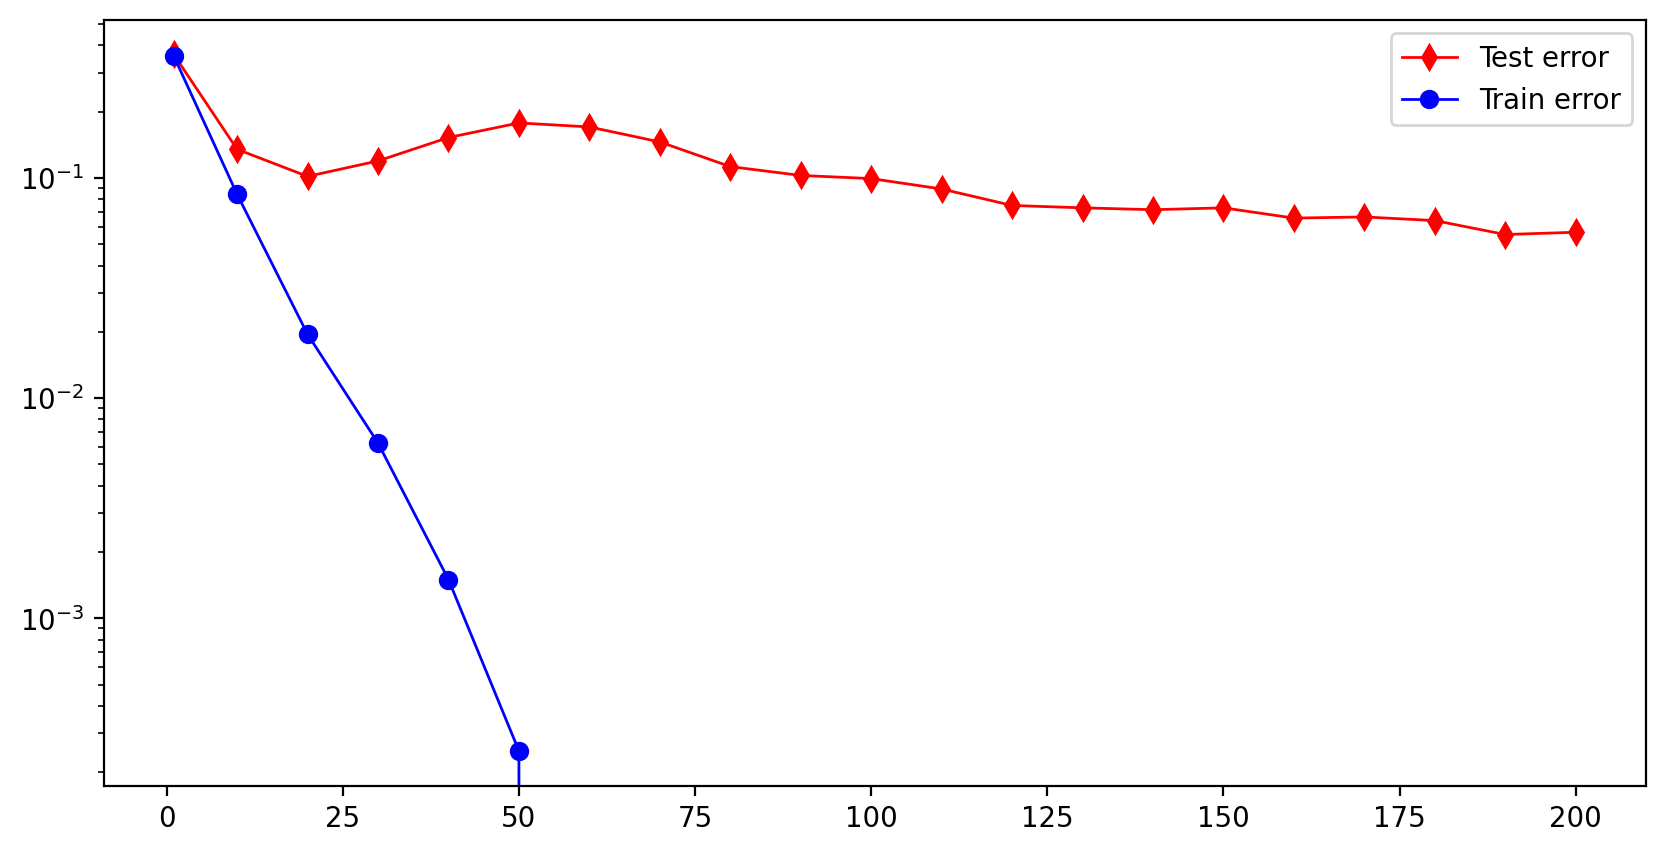
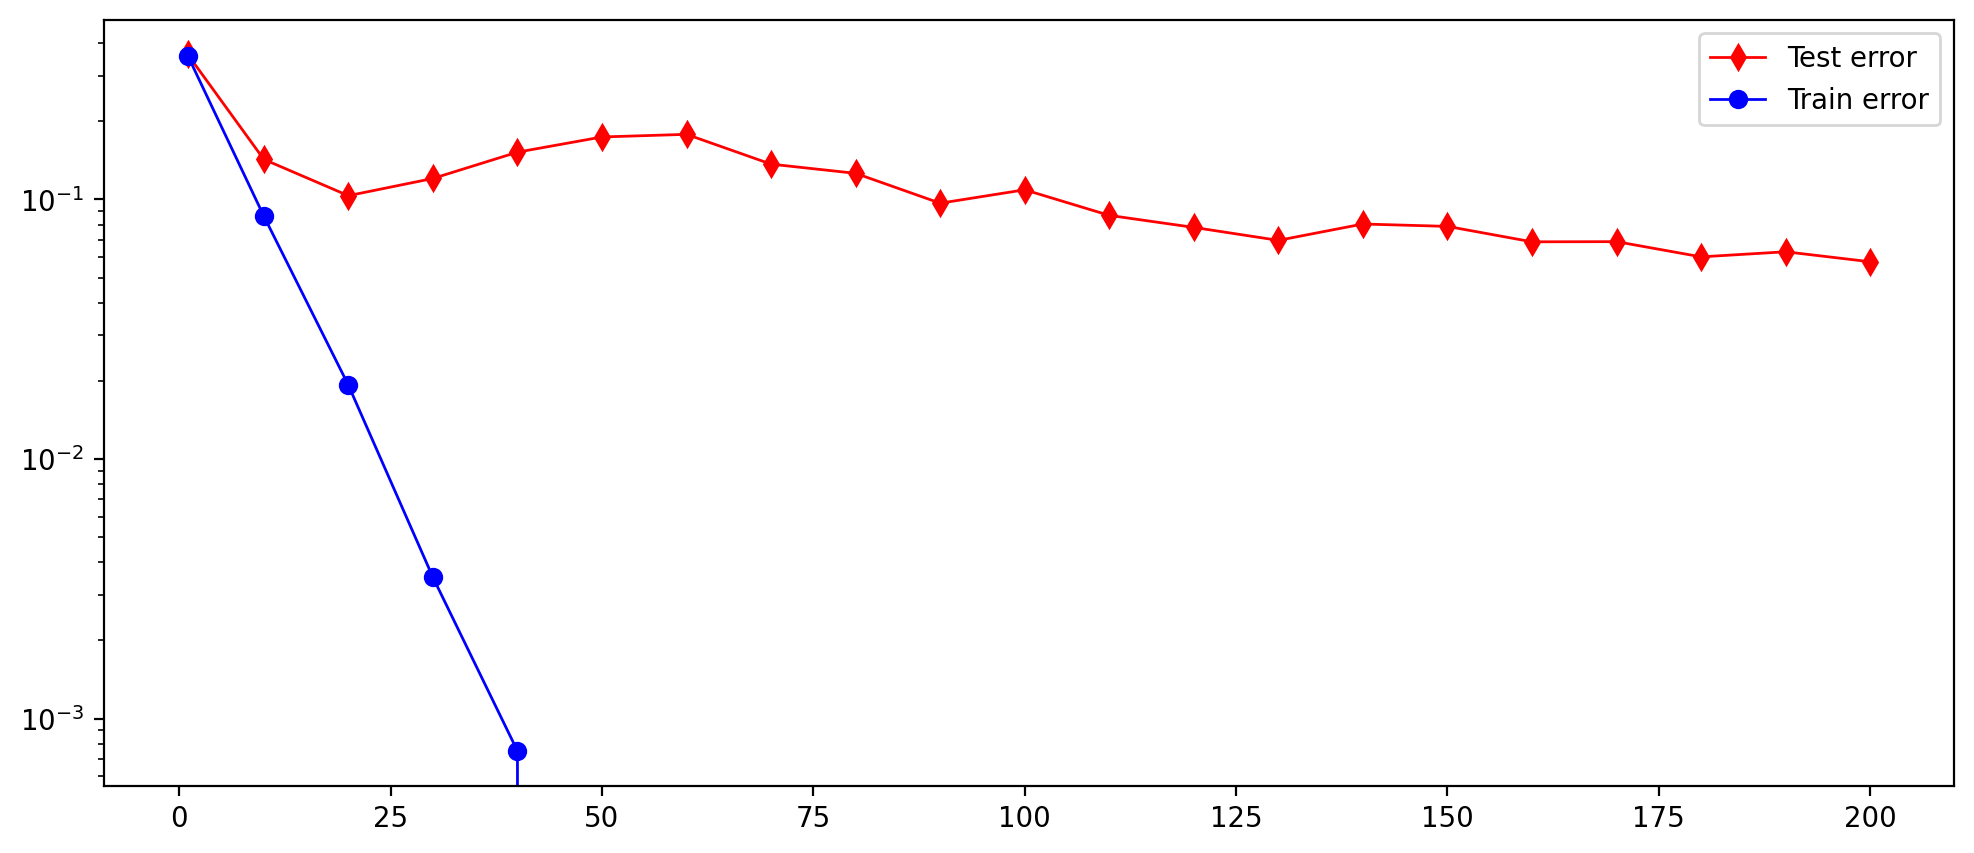
Improve the code

diff --git a/double_descent/double_descent.py b/double_descent/double_descent.py
@@ -1,6 +1,5 @@
 # %%
 import scipy.stats
-# from typing import Tuple
 
 import math
 import numpy as np
@@ -8,14 +7,13 @@ import numpy as np
 import pickle
 
 import os
-# import sys
 
-# """ matplotlib drawing to a pdf setup """
+""" matplotlib drawing to a pdf setup """
 # import matplotlib
 
 # matplotlib.use('Agg')
 import matplotlib.pyplot as plt
-#!%matplotlib inline
+# !%matplotlib inline
 
 
 class dotdict(dict):
@@ -35,7 +33,8 @@ def save_pdf(file_name):
     plt.savefig(file_name, bbox_inches='tight', dpi=199)
 
 
-figsize = (6.0, 6.0 * 3 / 4)
+boundary_figsize = (6.0, 6.0 * 3 / 4)
+charts_figsize = (12.0, 5.0)
 
 
 def save_object(filename, obj):
@@ -142,7 +141,7 @@ class G2Model:
         """
         x, y = train_data
         #
-        plt.figure(2, figsize=figsize)
+        plt.figure(2, figsize=boundary_figsize)
         plt.rc('lines', linewidth=1)
         # plot points
         mask0 = y == -1
@@ -226,18 +225,25 @@ class MyNet:
         self.hidden_size = hidden_size
         self.name = f'test-net-{hidden_size}'
         self.lifting = Lifting(input_size, hidden_size)
+        self.theta = None
+
+    def extend_one(self, x):
+        return np.hstack([x, np.ones((x.shape[0], 1))])
 
     def score(self, x: np.array) -> np.array:
         """
         :param x: np.array [N x d], N number of points, d dimensionality of the input features
         :return: s: np.array [N] predicted scores of class 1 for all points
         """
+        # lift the data to D dimensions
+        # psi = tanh(W0*x + b0)
         psi = self.lifting(x)
-        N = x.shape[0]
-        psi = np.hstack([psi, np.ones((N, 1))])
 
-        s = psi @ self.theta
-        return s
+        # linear layer
+        # add one dimension to psi for the bias
+        psi = self.extend_one(psi)
+        # compute w^T * psi + b = theta^T * [psi, 1]
+        return psi @ self.theta
 
     def classify(self, x: np.array) -> np.array:
         """
@@ -248,7 +254,7 @@ class MyNet:
         """
         return np.sign(self.score(x))
 
-    def train(self, train_data: tuple[np.ndarray, np.ndarray], lambda_reg: float = 10e-6):
+    def train(self, train_data: tuple[np.ndarray, np.ndarray], lambda_reg: float = 10e-6) -> None:
         """
         Train the model on the provided data
         *
@@ -257,92 +263,100 @@ class MyNet:
         x, y = train_data
 
         # lift the data to D dimensions
-        x = self.lifting(x)
+        psi = self.lifting(x)
 
         # compute psi matrix which is [N x D+1]
-        N = x.shape[0]
         D = self.hidden_size
-        psi = np.hstack([x, np.ones((N, 1))])
+        psi = self.extend_one(psi)
 
         # compute weights minimizing MSE
         # (psi^T * psi + lambda * I)^-1 * psi^T * y
         self.theta = np.linalg.inv(psi.T @ psi + lambda_reg * np.eye(D + 1)) @ psi.T @ y
 
+    def mse_loss(self, data: tuple[np.ndarray, np.ndarray]) -> None:
+        x, y = data
+        s = self.score(x)
+        return np.mean((s - y) ** 2)
 
 # %%
 
-def experiment(hidden_size: int, train_data_size: int, output_file: str = None) -> tuple[float, float]:
-    np.random.seed(seed=1)
-    G = G2Model()
-    train_data = G.generate_sample(train_data_size)
+
+def sample_and_train(G: G2Model, N: int, D: int, N_test: int = 50000) -> tuple[float, float, float, float]:
+    train_data = G.generate_sample(N)
     test_data = G.generate_sample(50000)
-    net = MyNet(2, hidden_size)
+
+    net = MyNet(2, D)
     net.train(train_data)
+
+    return net, train_data, test_data
+
+
+def errors(G: G2Model, net: MyNet, train_data: tuple[np.ndarray, np.ndarray], test_data: tuple[np.ndarray, np.ndarray]) -> tuple[float, float, float, float]:
     train_error = G.test_error(net, train_data)
     test_error = G.test_error(net, test_data)
+    train_mse = net.mse_loss(train_data)
+    test_mse = net.mse_loss(test_data)
 
-    if output_file is not None:
-        G.plot_boundary(train_data, net, train_error=train_error, test_error=test_error)
-        plt.draw()
-        save_pdf(f'{output_file}.png')
-        plt.cla()
-
-    return train_error, test_error
+    return train_error, test_error, train_mse, test_mse
 
 # %%
 
 
-def boundary():
+def task1_boundaries():
     folder_name = 'boundary'
     os.makedirs(folder_name, exist_ok=True)
 
-    train_data_size = 40
-    Ds = [10, 20, 50, 100, 200, 500, 1000, 2000, 5000]
+    N = 40
+    Ds = [10, 20, 50, 100, 200, 500, 1000, 2000, 5000, 10000]
+
+    G = G2Model()
+
     for D in Ds:
-        train_error, test_error = experiment(D, train_data_size, f'{folder_name}/{D}')
-        print(f'Hidden size: {D}')
-        print(f'Train error: {train_error*100}%')
-        print(f'Test error: {test_error*100}%')
+        # set the random seed for every D to get the same results as on the website
+        np.random.seed(seed=1)
+
+        net, train_data, test_data = sample_and_train(G, N, D)
+        train_error, test_error, _, _ = errors(G, net, train_data, test_data)
+
+        G.plot_boundary(train_data, net, train_error=train_error, test_error=test_error)
+        plt.draw()
+        save_pdf(f'{folder_name}/{D}.png')
+        plt.cla()
+
 
 # %%
 
 
-def variable_training_size():
-    np.random.seed(seed=1)
+def task1_variable_training_size():
     folder_name = 'training_size'
     os.makedirs(folder_name, exist_ok=True)
 
-    D = 40
+    D = 40  # fixed hidden dimension
     trials = 100
     G = G2Model()
+
+    # list [2, 4, 6, ..., 100]
+    Ns = list(range(2, 101, 2))
 
     avg_errors = []
     avg_losses = []
 
-    Ns = list(range(2, 101, 2))
     for N in Ns:
-        print(N, flush=True)
-
         test_errors = []
         test_losses = []
-        for _ in range(trials):
-            # generate new training data and lifting
-            train_data = G.generate_sample(N)
-            test_data = G.generate_sample(50000)
-            net = MyNet(2, D)
 
-            # train the network
-            net.train(train_data)
+        for t in range(trials):
+            net, train_data, test_data = sample_and_train(G, N, D)
+            _, test_error, _, test_mse = errors(G, net, train_data, test_data)
 
-            # compute loss and error
-            test_losses.append(np.mean((net.score(test_data[0]) - test_data[1]) ** 2))
-            test_errors.append(G.test_error(net, test_data))
+            test_errors.append(test_error)
+            test_losses.append(test_mse)
 
-        avg_errors.append(np.mean(np.array(test_errors)))
-        avg_losses.append(np.mean(np.array(test_losses)))
+        avg_errors.append(np.mean(test_errors))
+        avg_losses.append(np.mean(test_losses))
 
     # plot the results
-    plt.figure(1, figsize=(10.0, 5.0))
+    plt.figure(1, figsize=charts_figsize)
 
     plt.plot(Ns, avg_errors, marker='d', color='r')
     plt.yscale('log')
@@ -360,8 +374,7 @@ def variable_training_size():
 
 
 # %%
-def variable_hidden_size():
-    np.random.seed(seed=1)
+def task2_variable_hidden_size():
     folder_name = 'hidden_size'
     os.makedirs(folder_name, exist_ok=True)
 
@@ -374,10 +387,9 @@ def variable_hidden_size():
     avg_train_losses = []
     avg_test_losses = []
 
+    # list [1, 10, 20, ..., 200]
     Ds = [1] + list(range(10, 210, 10))
     for D in Ds:
-        print(D, flush=True)
-
         train_errors = []
         test_errors = []
         train_losses = []
@@ -385,19 +397,14 @@ def variable_hidden_size():
 
         for _ in range(trials):
 
-            # generate new training data and lifting
-            train_data = G.generate_sample(N)
-            test_data = G.generate_sample(50000)
-            net = MyNet(2, D)
-
-            # train the network
-            net.train(train_data)
+            net, train_data, test_data = sample_and_train(G, N, D)
+            train_error, test_error, train_mse, test_mse = errors(G, net, train_data, test_data)
 
             # compute loss and error
-            train_losses.append(np.mean((net.score(train_data[0]) - train_data[1]) ** 2))
-            test_losses.append(np.mean((net.score(test_data[0]) - test_data[1]) ** 2))
-            train_errors.append(G.test_error(net, train_data))
-            test_errors.append(G.test_error(net, test_data))
+            train_errors.append(train_error)
+            train_losses.append(train_mse)
+            test_errors.append(test_error)
+            test_losses.append(test_mse)
 
         avg_train_errors.append(np.mean(np.array(train_errors)))
         avg_test_errors.append(np.mean(np.array(test_errors)))
@@ -405,7 +412,7 @@ def variable_hidden_size():
         avg_test_losses.append(np.mean(np.array(test_losses)))
 
     # plot the results
-    plt.figure(1, figsize=(10.0, 5.0))
+    plt.figure(1, figsize=charts_figsize)
 
     plt.plot(Ds, avg_test_errors, marker='d', color='r')
     plt.plot(Ds, avg_train_errors, marker='o', color='b')
@@ -428,8 +435,8 @@ def variable_hidden_size():
 
 
 if __name__ == "__main__":
-    boundary()
+    task1_boundaries()
 
-    variable_training_size()
+    task1_variable_training_size()
 
-    variable_hidden_size()
+    task2_variable_hidden_size()

diff --git a/double_descent/report/report.tex b/double_descent/report/report.tex
@@ -13,5 +13,5 @@
 \rhead{Jakub Rada}
 
 \begin{document}
-a
+Double descent
 \end{document}
